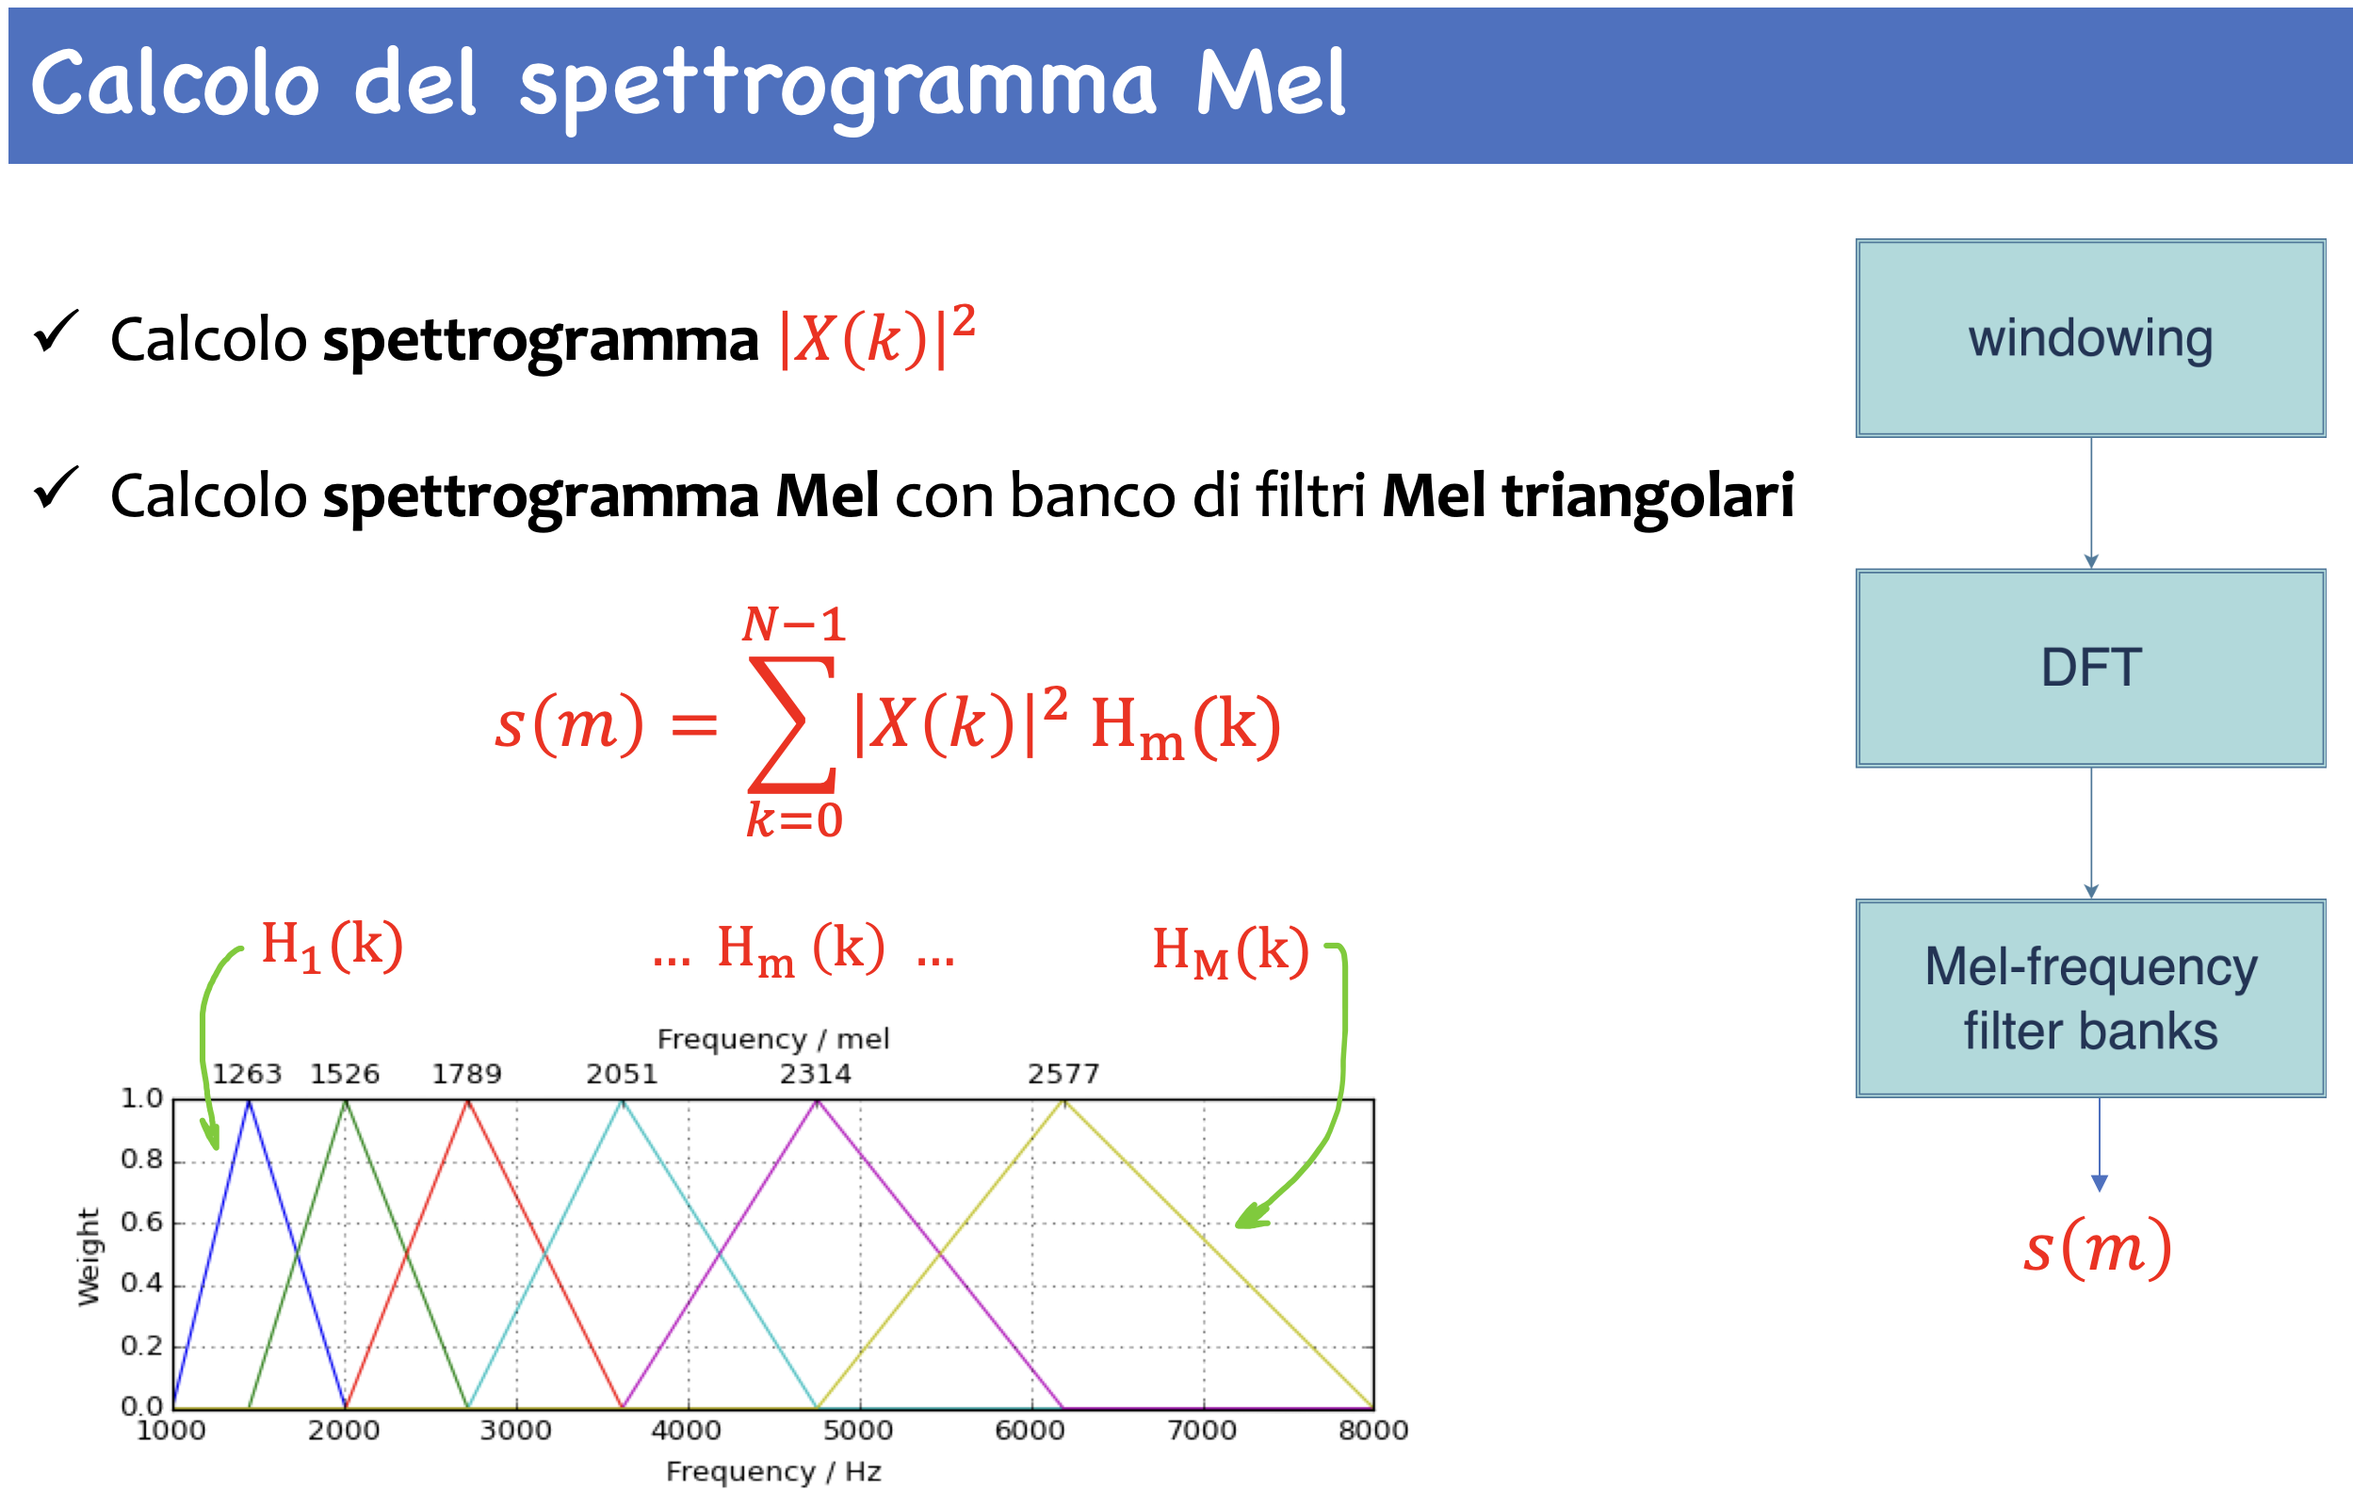
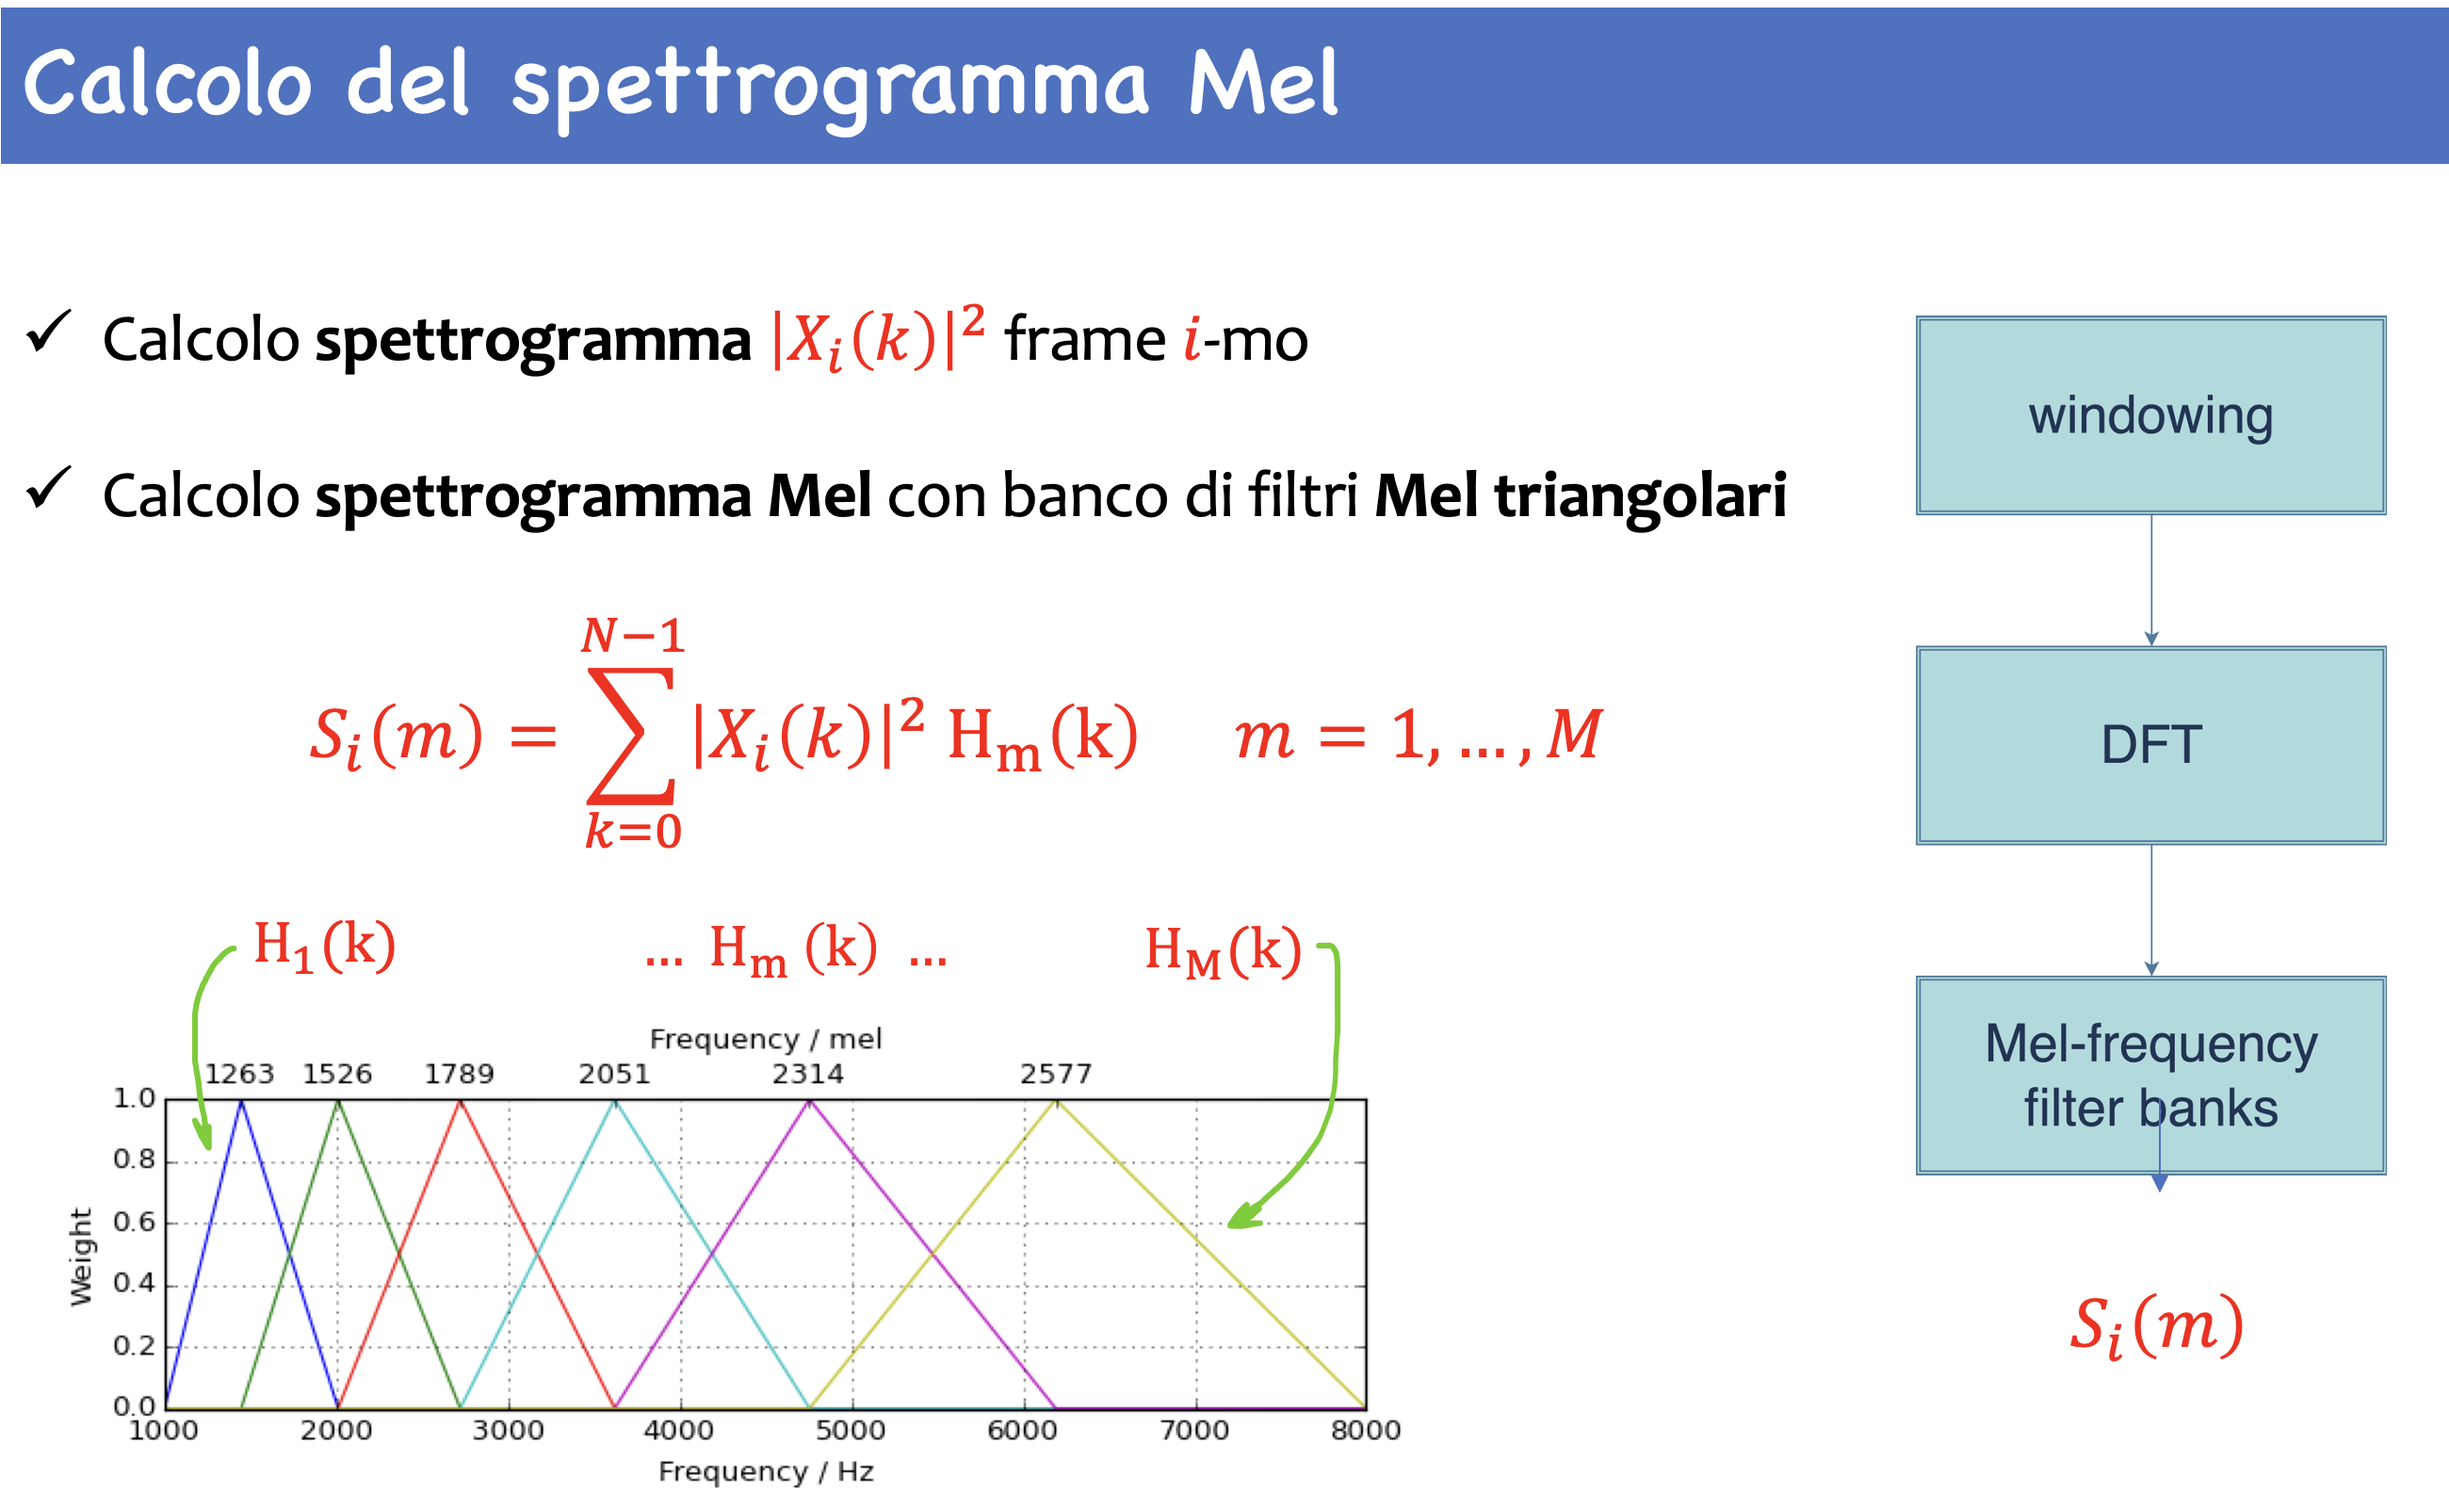
upd

diff --git a/cap7-features.md b/cap7-features.md
@@ -213,7 +213,7 @@ Gli MFCC possono essere calcolati conducendo i seguenti passi consecutivi:
 4. Mappatura sulla scala Mel
 5. Logaritmo dell’energia
 6. Trasformata discreta del coseno (DCT)
-8. Delta e Delta-Delta (opzionale)
+7. Delta e Delta-Delta (opzionale)
 
 La figura ne mostra la relazione funzionale.
 
@@ -237,7 +237,31 @@ $$
 
 #### 2. Framing (windowing) del segnale 
 
-L'idea alla base della partizione in frame del segnale raw è quella di avere segmenti brevi in cui il segnale tende ad essere più stazionario al fine di avere proprietà acustiche stabili. Per quanto riguarda il segnale vocale, il periodo di 20-30 ms è riferito come segmento quasi stazionario (QSS) dal momento che il tempo tra due eventi glottali è di circa 20 ms. In aggiunta, la sovrapposizione di frame di 10 ms consentono di catturare meglio le feature temporali del segnale vocale. In generale, le finestre di Hanning e Hamming sono tra le più usate. Queste finestre possono migliorare le armoniche, e la riduzione dell'effetto di bordo durante il calcolo della DFT sul segnale. La figura sotto rappresenta bene questa operazione per il calcolo dello spettro di potenza a livello di frame.
+L'idea alla base della partizione in frame del segnale raw è quella di avere segmenti brevi in cui il segnale tende ad essere più stazionario al fine di avere proprietà acustiche stabili. Per quanto riguarda il segnale vocale, il periodo di 20-30 ms è riferito come segmento quasi stazionario (QSS) dal momento che il tempo tra due eventi glottali è di circa 20 ms. In aggiunta, la sovrapposizione di frame di 10 ms consentono di catturare meglio le feature temporali del segnale vocale. In generale, le finestre di Hanning e Hamming sono tra le più usate. Queste finestre possono migliorare le armoniche, e la riduzione dell'effetto di bordo durante il calcolo della DFT sul segnale. 
+
+Per la finestratura vengono impiegate finestre come la finestra di Hamming, che è una funzione utilizzata per ridurre gli effetti delle discontinuità ai bordi di un segnale quando viene suddiviso in segmenti (o frame) per l’analisi. La finestra moltiplica il segnale $x(n)$ elemento per elemento, attenuando gradualmente i valori ai bordi del frame. La funzione della finestra di Hamming è definita come:
+
+$$
+w(n) = 0.54 - 0.46 \cos\left( \frac{2\pi n}{N-1} \right), \qquad 0 \leq n \leq N-1,
+$$
+
+dove $N$ è la lunghezza del frame (numero di campioni nel segmento), $n$ è l’indice temporale all’interno del frame (figura sotto).
+
+&nbsp;
+```{image} images/hamming-win.png
+:width: 450px
+:align: center
+```
+&nbsp;
+
+
+Per applicare la finestra di Hamming al segnale $x(n)$, il segnale viene moltiplicato punto per punto con la finestra ottenendo il frame temporale pronto per la trasformata di Fourier o altre analisi:
+
+$$
+x_i(n) = x(n) \cdot w(n), \qquad 0 \leq n \leq N-1, \quad 0 \leq i \leq T.
+$$
+
+La figura sotto rappresenta bene questa operazione per il calcolo dello spettro di potenza a livello di frame $i$.
 
 &nbsp;
 ![alt text](images/MFCC-1.png)
@@ -245,10 +269,10 @@ L'idea alla base della partizione in frame del segnale raw è quella di avere se
 
 #### 3. Spettro di potenza del segnale 
 
-Lo spettro di potenza può essere descritto come la distribuzione della potenza dei componenti alle varie frequenze di cui è composto il segnale. Tradizionalmente, la trasformata discreta di Fourier (DFT) viene utilizzata per calcolare lo spettro di potenza. Lo spettro di potenza di ciascun frame $x(n)$ è ottenuto elevando al quadrato il valore assoluto della risposta in frequenza della DFT, cioè:
+Lo spettro di potenza può essere descritto come la distribuzione della potenza dei componenti alle varie frequenze di cui è composto il segnale. Tradizionalmente, la trasformata discreta di Fourier (DFT) viene utilizzata per calcolare lo spettro di potenza. Lo spettro di potenza di ciascun frame $x_i(n)$ è ottenuto elevando al quadrato il valore assoluto della risposta in frequenza della DFT, cioè:
 
 $$
-|X(k)|^2=\left|\sum \limits _{n=0}^{N-1} {x\left ({n }\right)} e^{-j\frac{2\pi}{N}nk}\right|^2 \qquad k=1,2,3\ldots N-1
+|X_i(k)|^2=\left|\sum \limits _{n=0}^{N-1} x_i(n)\, e^{-j\frac{2\pi}{N}nk}\right|^2 \qquad k=0,2,3\ldots N-1.
 $$
 
 Complessivamente questo passaggio, applicato a tutti i frame temporali, implica calcolare lo spettrogramma come mostrato nelle sezioni precedenti e riassunto qui in figura. Quello che si ottiene alla fine di questo passo è lo spettrogramma completo per l'intero segnale, finestra su finestra e la sua rappresentazione matriciale.
@@ -259,10 +283,10 @@ Complessivamente questo passaggio, applicato a tutti i frame temporali, implica 
 
 #### 4. Spettrogramma Mel
 
-Lo spettro Mel si ottiene facendo passare il segnale trasformato mediante Fourier attraverso l'insieme di filtri passa-banda chiamati Mel-filter bank. Per il calcolo degli MFCC, i filtri sono generalmente implementati nel dominio della frequenza. Lo spettro Mel dello spettro in modulo si ottiene moltiplicando il modulo dello spettro per ciascuno dei filtri triangolari ponderati sulla scala Mel. Questo passaggio è fondamentale per avvicinare la rappresentazione del segnale alle caratteristiche dell’udito umano e per estrarre informazioni pertinenti alla successiva fase di calcolo degli MFCC. In questa fase si applica il banco di filtri Mel e in seguito si calcola l'energia contenuta in ciascun filtro triangolare sommando i valori della densità spettrale (ottenuta dalla FFT) pesati dal filtro:
+Lo spettro Mel si ottiene facendo passare il segnale trasformato mediante Fourier attraverso l'insieme di filtri passa-banda chiamati Mel-filter bank. Per il calcolo degli MFCC, i filtri sono generalmente implementati nel dominio della frequenza. Lo spettro Mel dello spettro in modulo si ottiene moltiplicando il modulo dello spettro di un frame per ciascuno dei filtri triangolari ponderati sulla scala Mel. Questo passaggio è fondamentale per avvicinare la rappresentazione del segnale alle caratteristiche dell’udito umano e per estrarre informazioni pertinenti alla successiva fase di calcolo degli MFCC. In questa fase si applica il banco di filtri Mel e in seguito si calcola l'energia contenuta in ciascun filtro triangolare sommando i valori della densità spettrale (ottenuta dalla FFT) pesati dal filtro:
 
 $$
-s(m)=\sum_{k=0}^{N-1} |X(k)|^2 \cdot H_m(k),\quad\qquad 0\leq m\leq M-1.
+S_i(m)=\sum_{k=0}^{N-1} |X(k)|^2 \cdot H_m(k),\quad\qquad 0\leq m\leq M-1.
 $$
 
 dove $M$ è il numero totale di filtri. $H_m(k)$ è il peso attribuito al $k$-esimo intervallo di spettro energetico che contribuisce alla medesima banda in uscita. Nella figura è rappresentato il passaggio centrale con uso del banco di filtri passa-banda triangolari.
@@ -275,10 +299,10 @@ dove $M$ è il numero totale di filtri. $H_m(k)$ è il peso attribuito al $k$-es
 La compressione logaritmica è una trasformazione che si applica ai valori energetici ottenuti dopo il passaggio attraverso i filtri triangolari sulla scala Mel. Questo step è cruciale per avvicinare la rappresentazione del segnale audio al modo in cui l’udito umano percepisce i suoni. Dati i valori di energia  $s(m)$ calcolati per ciascun filtro triangolare, si applica il logaritmo naturale per ottenere i valori compressi:
 
 $$
-\hat{s}(m) = \log(s(m) + \epsilon),
+\hat{S}_i(m) = \log(S_i(m) + \epsilon),
 $$
 
-dove $s(m)$ è l’energia associata al filtro $m$ ed $\epsilon$  è una costante positiva molto piccola per evitare problemi con il logaritmo di zero (valori nulli).
+dove $S_i(m)$ è l’energia associata al filtro $m$ per il frame $i$ ed $\epsilon$ è una costante positiva molto piccola per evitare problemi con il logaritmo di zero (valori nulli).
 
 &nbsp;
 ![alt text](images/MFCC-5.png)
@@ -292,10 +316,10 @@ In molti casi i livelli di energia nelle bande adiacenti tendono a essere correl
 La DCT esprime una sequenza finita di punti dati dalla somma di funzioni coseno oscillanti a frequenze diverse, multiple di una frequenza base. Nel processo MFCC, la DCT viene applicata a valle del banco di filtri Mel per selezionare la maggior parte dei coefficienti utili a catturare l'informazione massima nelle log ampiezze spettrali dei blocchi filtrati. La DCT è calcolata dall'equazione seguente:
 
 $$
-c(n)=\sum_{n=0}^{N-1} \hat{s}(m) \cos\left({2\pi jnk}/ N\right),\qquad n=1,2,\dots, C-1
+c_i(n)=\sum_{n=0}^{N-1} \hat{S}_i(m) \cos\left({2\pi jnk}/ N\right),\quad n=0,1,\dots, C-1, \quad i=0,1,\dots, T
 $$
 
-dove $c(n)$ sono i coefficienti cepstrali e $C$ è il numero di MFCC. I sistemi MFCC tradizionali utilizzano solo 8-13 coefficienti cepstrali. Il coefficiente zeresimo viene spesso escluso perché rappresenta la log-energia media del segnale di ingresso. Tutto questo è sintetizzato nella figura.
+dove $c_i(n)$ sono i coefficienti cepstrali associati al frame $i$-mo e $C$ è il numero totali di MFCC. I sistemi MFCC tradizionali utilizzano solo 8-13 coefficienti cepstrali. Il coefficiente zeresimo viene spesso escluso perché rappresenta la log-energia media del segnale di ingresso. Tutto questo è sintetizzato nella figura.
 
 &nbsp;
 ![alt text](images/MFCC-6.png)
@@ -312,3 +336,15 @@ Alla fine alcune considerazioni sull'uso degli MFCC in generale nelle applicazio
 &nbsp;
 ![alt text](images/MFCC-8.png)
 &nbsp;
+
+#### 7. Delta e Delta-Delta
+
+I coefficienti MFCC dinamici arricchiscono le caratteristiche statiche degli MFCC includendo informazioni sulla dinamica temporale del segnale. Questo si ottiene calcolando le derivate prime e seconde dei coefficienti cepstrali, note rispettivamente come coefficienti delta e coefficienti delta-delta. I coefficienti delta rappresentano la derivata prima dei coefficienti cepstrali e forniscono informazioni sul tasso di variazione del discorso. Sono calcolati utilizzando una finestra temporale centrata sul frame di interesse. Una formula comunemente utilizzata è:
+
+$$
+\Delta c_i(n) = \frac{\sum_{j=-\tau}^{\tau} k_j \cdot c_i(n+j)}{\sum_{j=-\tau}^{\tau} |j|}
+$$
+
+dove $c_i(n)$ è $i$-esimo coefficiente cepstrale dell' $i$-simo frame temporale, $k_j$ è un peso associato al frame $i$ e $\tau$ (tipicamente pari a 2) è il numero di frame successivi utilizzati per il calcolo.
+
+I coefficienti delta-delta, o accelerazione, rappresentano la derivata seconda dei coefficienti cepstrali e forniscono informazioni sull'accelerazione del discorso. Si ottengono calcolando la derivata prima dei coefficienti delta, applicando la stessa formula utilizzata per i coefficienti delta, ma sostituendo $c_i(n)$ con $\Delta c_i(n)$. L’inclusione di coefficienti delta e delta-delta nelle caratteristiche MFCC migliora le prestazioni dei sistemi di riconoscimento vocale, poiché fornisce informazioni sulla dinamica del segnale, essenziali per catturare le variazioni nel tempo tipiche del parlato. 
